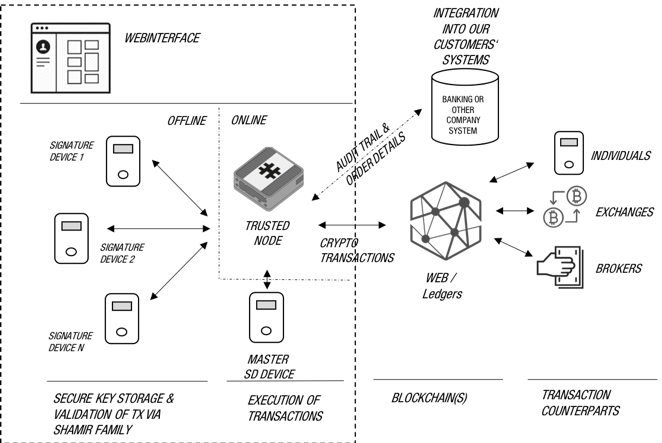
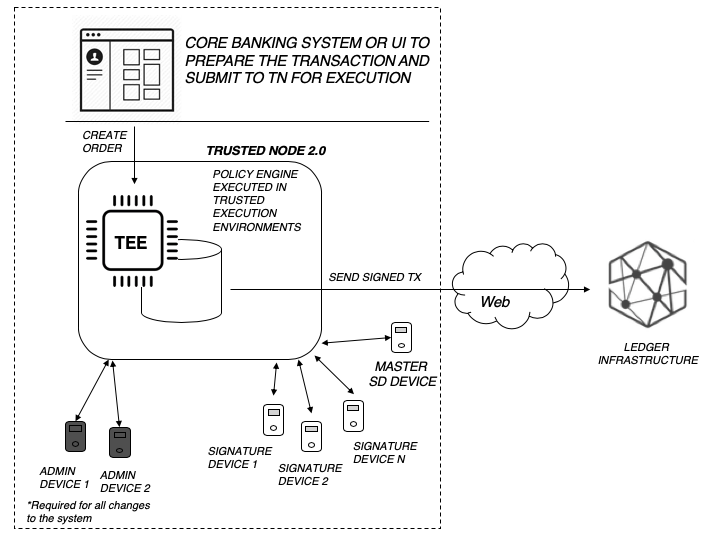
Added the addon documents and overall architecture
Overal architecture
Reconcilliation
New assets

diff --git a/docs/DAMS Architecture Overview.md b/docs/DAMS Architecture Overview.md
@@ -1,0 +1,83 @@
+# Solution Architecture
+
+
+With the release of the new Trusted Node2.0 to the Digital Asset management solution RIDDLE&CODE updated the unterlying Archicture to improve the process security. 
+
+## Table of contents
+- [Architecture](#architecture)
+- [New Deployment of Updates](#new-deployement-of-updates)
+- [The trusted Execution enclave](#the-trusted-execution-enclave)
+- [New Webinterface](#new-webinterface)
+- [New Admin area](#new-admin-area)
+
+## Architecture
+
+The architecture of the Digital Asset Management Solution has ben enhanced to serve enhance the security and usability of the overall solution.
+
+![alt text](https://github.com/RiddleAndCode/trusted-node-manuals/blob/master/assets/fee.png "Architecture.png")
+
+With the new Trusted Node2.0 RIDDLE&CODE updated the underlying hardware to reflect the new requirements in regard of security and performances as well as the software architecture
+
+Additionally the updated Digital Asset Management solution has been extended with a dedicated Admin Device family to increase and streamline the adminstrative workflow and to enhance the security of the solution.
+
+## New Deployment of Updates
+
+RIDDLE&CODE pivoted from providing signed binaries and move to Docker Images to provide updates to the Trusted Node 2.0
+
+Docker is a set of platform as a service products that use OS-level virtualization to deliver software in packages called containers. Containers are isolated from one another and bundle their own software, libraries and configuration files; they can communicate with each other through well-defined channels.
+
+## The trusted execution enclave
+
+A trusted execution environment (TEE) is a secure, integrity-protected processing environment, consisting of processing, memory and storage capabilities. It is isolated from the “normal” processing environment, sometimes called the rich execution environment (REE), where the device operating system and applications run. TEEs were designed to provide protection so that sensitive operations are restricted to the TEE and sensitive data, like cryptographic keys, never leave the TEE. 
+
+One specific application in this regard and a cornerstone of the Digital asset management solution is the Intel® Software Guard Extensions (Intel® SGX). It is a set of instructions that increases the security of application code and data, giving them more protection from disclosure or modification. 
+
+
+## New Webinterface
+
+RIDDLE&CODE updated the webinterface to improve the usability and performance of the solution.
+
+
+## New Admin area 
+
+The admin area has been updated to reflect the new feature set and access process. 
+***Note: to access the Admin area the two Admin devices need to be connected to the Trusted Node and the on device messages need to be confirmed***
+
+At the initial access to the Trusted Node2.0 the following steps are required: 
+
+**Step 1** 
+Select one of the two Admin Devices 
+
+**Step 2**
+Select new signing quorum 
+
+**Step 3**
+Total number of slices: 2
+
+**Step 4**
+Minimum number of slices to sign: 2
+
+**Step 5**
+Create
+
+**Step 6**
+Follow the on device screen instructions and perform a 2 person Key ceremony: https://riddlecode-digital-asset-management-manuals.readthedocs-hosted.com/en/latest/KeyCeremony-2persons/
+
+**Step 7**
+Note down the Public Key shown on the interface and send it to support@riddleandcode.com
+
+**Step 8**
+RIDDLE&CODE sends you an updated docker-compose file with the public key of step 7 provisioned to the policy layer.
+
+**Step 9**
+Access the Trusted Node and login with the provided credentials 
+Copy the updated docker-compose file sent by RIDDLE&CODE to /home/dam/dam
+
+**Step 10**
+On the Trusted Node issue this bash-command
+run /home/dam/dam/update.sh
+
+After the update has been processed issue this bash-command
+sudo service dam restart
+
+## 

diff --git a/docs/Fee estimates.md b/docs/Fee estimates.md
@@ -1,0 +1,15 @@
+Fee estimates 
+
+RIDDLE&CODE provides an integrated gas/fees calculation performed for all crypto currencies available in the Digital Asset Management Solution. 
+
+![alt text](https://github.com/RiddleAndCode/trusted-node-manuals/blob/master/assets/fee.png "Fee estimates")
+
+By choosing one of the defaults the recommended ammount of fees is automatically copied to the Fee field. 
+
+To prioritise transaction based on the fees the user one of the three provided defaults.
+Note: the fees provided via our solution are recommendataions only, the user can alter the presets accordingly.
+
+##Data source##
+
+The solution uses the publicly available kraken.com api
+More information on the API can be found on https://www.kraken.com/features/api#public-market-data 

diff --git a/docs/Reconcilliation.md b/docs/Reconcilliation.md
@@ -1,0 +1,20 @@
+Reconcilliation
+
+This add-on enables FPB to extent their current asset management solution with an automated reconciliation feature to streamline internal processes. The software package delivers a .csv-file with the following structure:
+
+**Account ID**
+**Coin address**
+**Coin type**
+**Time stamp**
+**confirmed Balance** 
+**unconfirmed balance** 
+
+It creates periodically new files with the balances.
+This file is saved on the Trusted Node itself and can be recovered from there.
+
+How to access the data.csv:
+
+Step 1: Logon the Trusted Node with the provided credentials
+Step 2: Navigate to the /home/dam/dam/data/data.csv
+
+Note: the data is appended periodically
